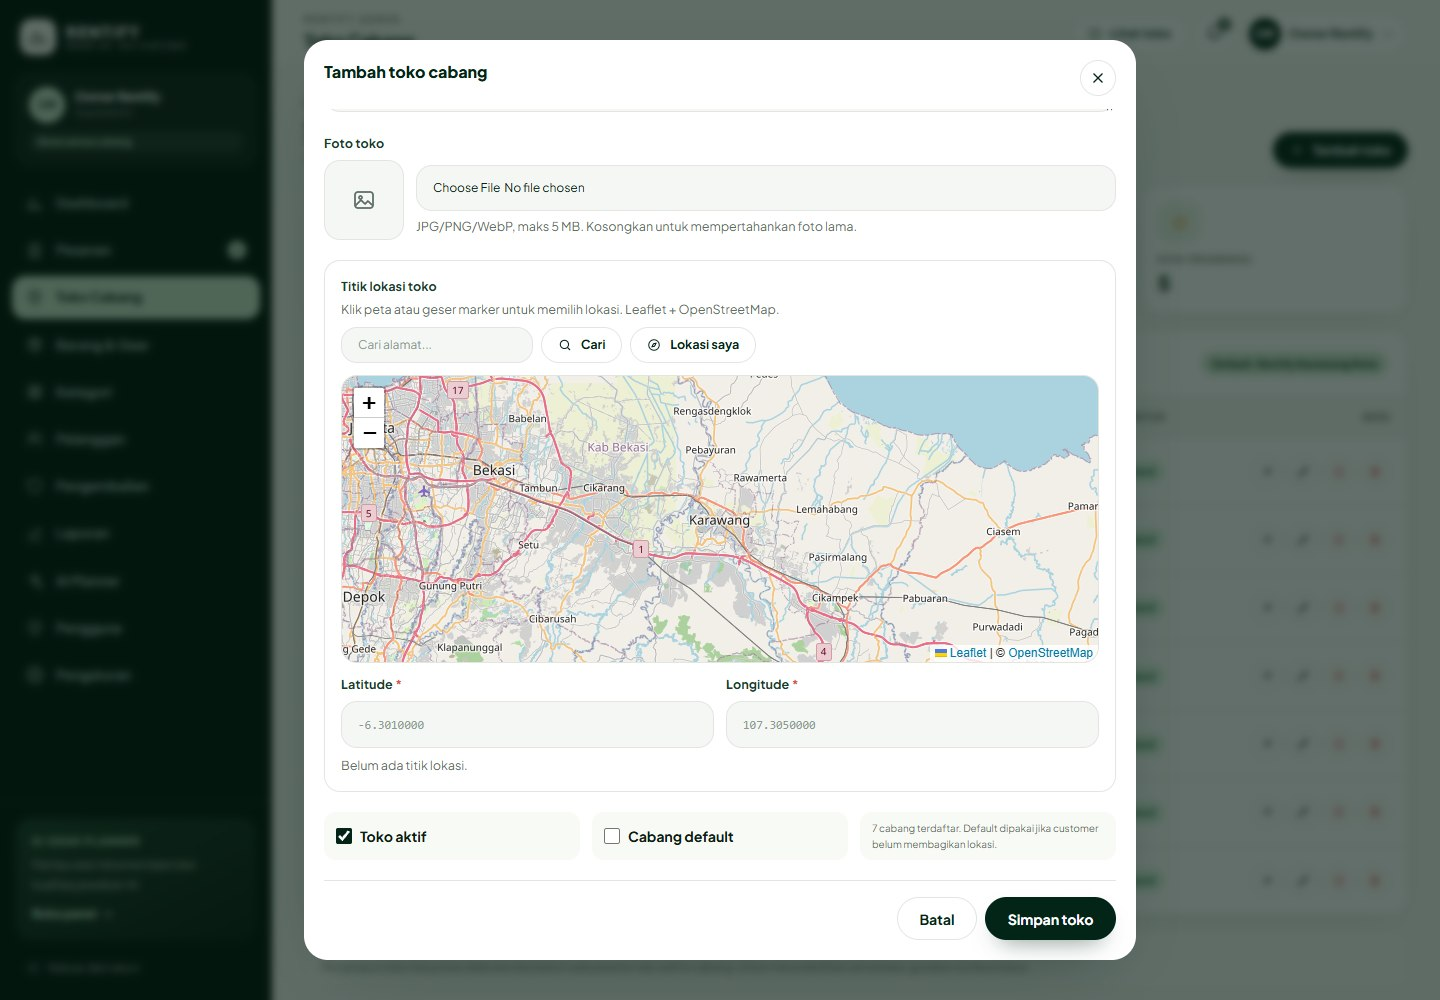
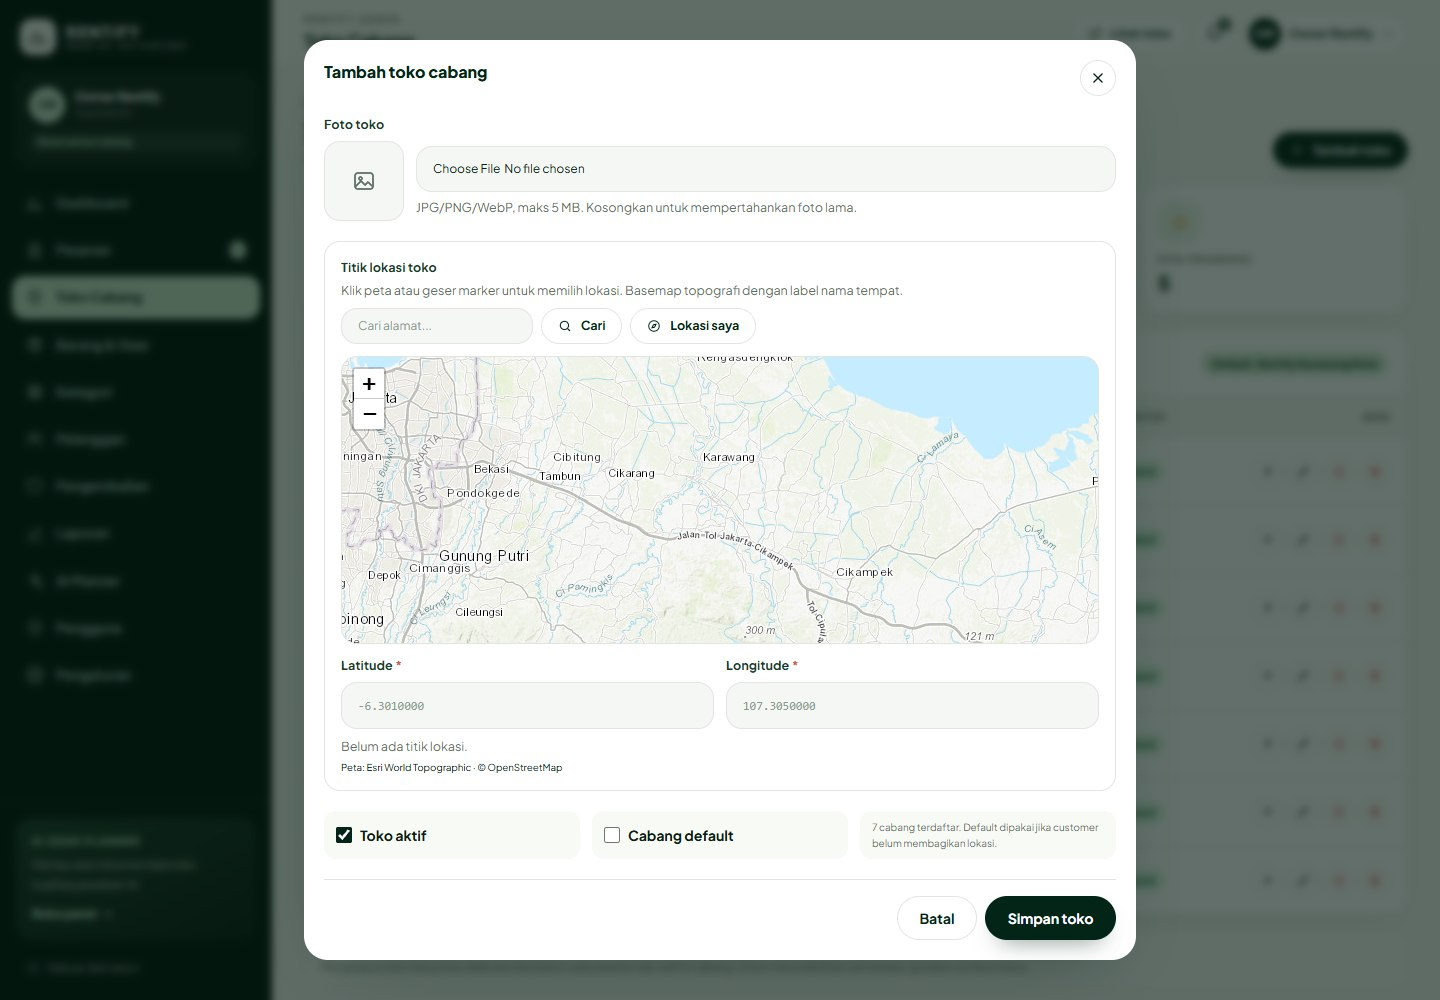
style: basemap topografi tanpa watermark Leaflet
Ganti tile OSM ke Esri World Topographic yang tetap menampilkan label tempat, sembunyikan attribution control Leaflet, dan pindahkan kredit peta ke teks kecil di bawah peta.

diff --git a/assets/js/admin-stores.js b/assets/js/admin-stores.js
@@ -47,10 +47,10 @@
     const lat = hasPoint ? Number(latInput.value) : -6.301;
     const lng = hasPoint ? Number(lngInput.value) : 107.305;
 
-    map = L.map(container, { scrollWheelZoom: false }).setView([lat, lng], hasPoint ? 13 : 10);
-    L.tileLayer('https://{s}.tile.openstreetmap.org/{z}/{x}/{y}.png', {
+    map = L.map(container, { scrollWheelZoom: false, attributionControl: false }).setView([lat, lng], hasPoint ? 13 : 10);
+    // Basemap topografi: elevasi, kontur, dan label nama tempat tetap terlihat.
+    L.tileLayer('https://server.arcgisonline.com/ArcGIS/rest/services/World_Topo_Map/MapServer/tile/{z}/{y}/{x}', {
       maxZoom: 19,
-      attribution: '&copy; <a href="https://www.openstreetmap.org/copyright" target="_blank" rel="noopener">OpenStreetMap</a>',
     }).addTo(map);
 
     if (hasPoint) {

diff --git a/assets/js/map-stores.js b/assets/js/map-stores.js
@@ -10,11 +10,12 @@
   const map = L.map(mapEl, {
     scrollWheelZoom: false,
     zoomControl: true,
+    attributionControl: false,
   }).setView([-6.301, 107.305], 7);
 
-  L.tileLayer('https://{s}.tile.openstreetmap.org/{z}/{x}/{y}.png', {
+  // Basemap topografi: elevasi, kontur, dan label nama tempat tetap terlihat.
+  L.tileLayer('https://server.arcgisonline.com/ArcGIS/rest/services/World_Topo_Map/MapServer/tile/{z}/{y}/{x}', {
     maxZoom: 19,
-    attribution: '&copy; <a href="https://www.openstreetmap.org/copyright" target="_blank" rel="noopener">OpenStreetMap</a>',
   }).addTo(map);
 
   const bounds = [];

diff --git a/api/admin.php b/api/admin.php
@@ -108,7 +108,7 @@ function admin_store_form_html(?array $store): string
             <div class="flex flex-wrap items-center justify-between gap-2">
                 <div>
                     <p class="field-label !mb-0">Titik lokasi toko</p>
-                    <p class="helper mt-1">Klik peta atau geser marker untuk memilih lokasi. Leaflet + OpenStreetMap.</p>
+                    <p class="helper mt-1">Klik peta atau geser marker untuk memilih lokasi. Basemap topografi dengan label nama tempat.</p>
                 </div>
                 <div class="flex flex-wrap gap-2">
                     <input id="store-map-search" class="input !w-auto min-w-[12rem] !py-2 text-xs" type="search" placeholder="Cari alamat..." data-store-map-search>
@@ -128,6 +128,7 @@ function admin_store_form_html(?array $store): string
                 </div>
             </div>
             <p class="helper mt-2" data-store-map-status><?= $isEdit ? 'Titik saat ini: ' . e($store['latitude'] ?? '-') . ', ' . e($store['longitude'] ?? '-') : 'Belum ada titik lokasi.' ?></p>
+            <p class="mt-1 text-[0.6rem] text-muted/80">Peta: Esri World Topographic · © OpenStreetMap</p>
         </section>
 
         <div class="grid gap-3 sm:grid-cols-3">

diff --git a/toko.php b/toko.php
@@ -79,7 +79,10 @@ require ROOT_PATH . '/includes/customer_nav.php';
         </div>
         <div class="mt-3 flex flex-wrap items-center justify-between gap-2 text-[0.65rem] text-muted">
             <p class="flex items-center gap-1.5"><?= icon('map', 'h-3.5 w-3.5') ?> Klik marker untuk melihat detail cabang.</p>
-            <p data-nearest-store-distance><?= $nearest ? e(Store::distanceLabel((float) $nearest['distance_km'])) . ' dari lokasimu' : 'Izinkan lokasi untuk menghitung jarak.' ?></p>
+            <div class="flex flex-wrap items-center gap-x-3 gap-y-1">
+                <p data-nearest-store-distance><?= $nearest ? e(Store::distanceLabel((float) $nearest['distance_km'])) . ' dari lokasimu' : 'Izinkan lokasi untuk menghitung jarak.' ?></p>
+                <p class="text-[0.6rem] text-muted/80">Peta: Esri World Topographic · © OpenStreetMap</p>
+            </div>
         </div>
 
         <section class="mt-8">

diff --git a/README.md b/README.md
@@ -157,7 +157,7 @@ Superadmin mengelola **gear & varian, kategori, toko cabang, pengguna, pengatura
 | Database | MySQL 8 / MariaDB 10.4+, 26 tabel, prepared statements |
 | Frontend | Tailwind CSS v4 (build lokal), JavaScript modular vanilla, Fetch API |
 | 3D | Three.js (vendor lokal) untuk landing page |
-| Peta | Leaflet 1.9 + OpenStreetMap (vendor lokal) untuk cabang & pemilih lokasi |
+| Peta | Leaflet 1.9 + basemap topografi Esri World Topographic + data © OpenStreetMap |
 | Grafik | Chart.js (vendor lokal) untuk dashboard & laporan |
 | AI | 9router OpenAI-compatible API, model `ag/gemini-3.8-flash-medium` |
 | Font | Plus Jakarta Sans (self-hosted) |
